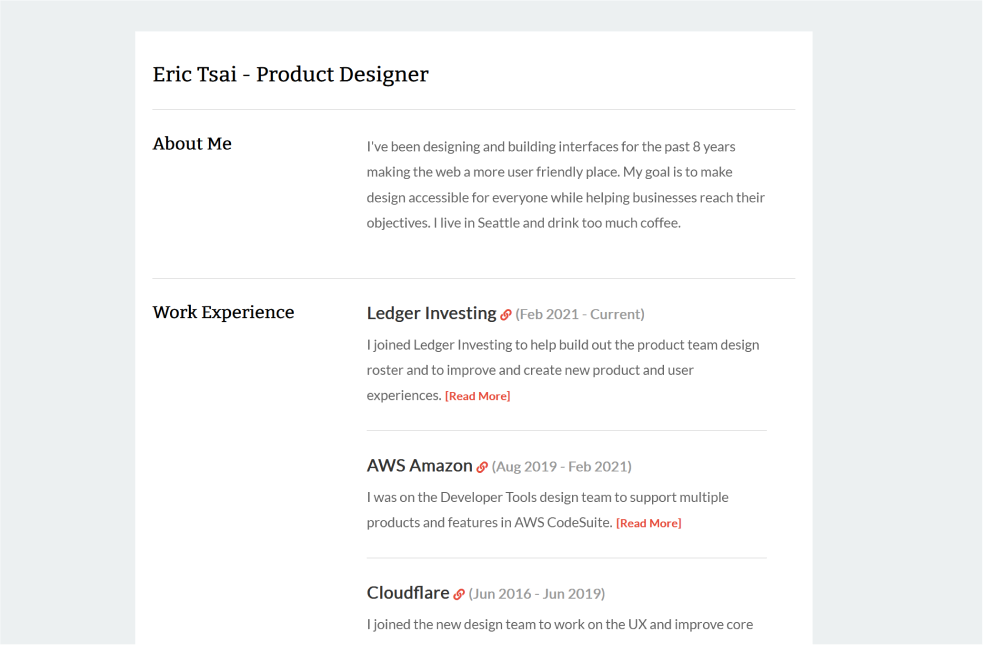
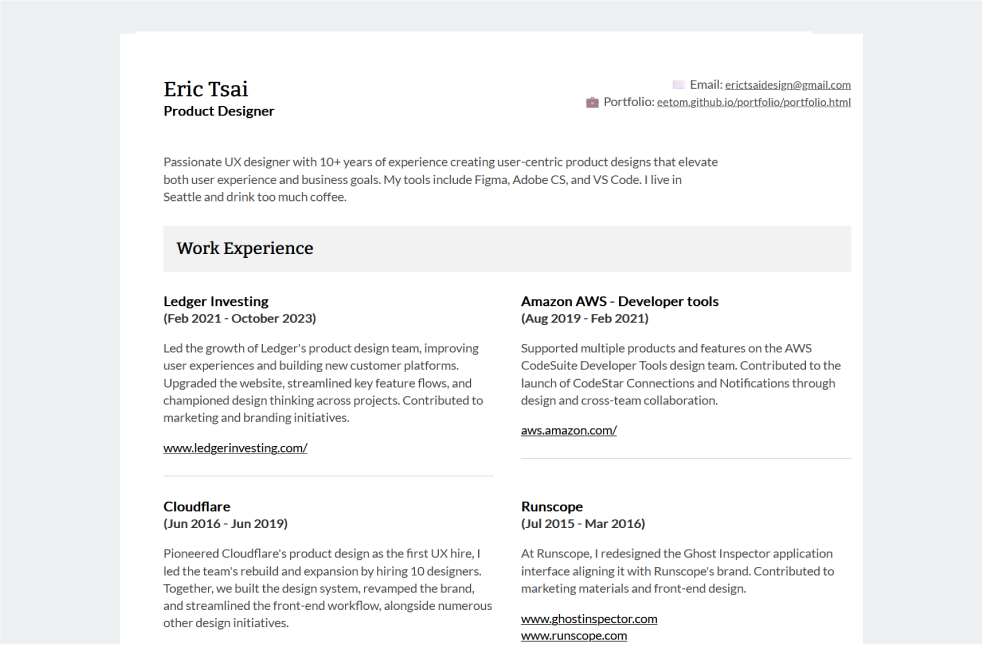
a few updates

diff --git a/projects/digital-resume/coverletter-samsara.html b/projects/digital-resume/coverletter-samsara.html
@@ -1,0 +1,65 @@
+<!DOCTYPE html>
+<html>
+  <head>
+    <meta charset="UTF-8">
+    <title>Eric Tsai - Cover letter Samsara</title>
+  <link href="https://fonts.googleapis.com/css?family=Bitter|Lato" rel="stylesheet">
+  <link href="https://fonts.googleapis.com/css2?family=Nothing+You+Could+Do&display=swap" rel="stylesheet">
+  <link rel="stylesheet" href="styles.css" type="text/css">
+  <link rel="stylesheet" href="styles-plain.css" type="text/css">
+  </head>
+  <body>
+  	<div class="wrapper">
+
+      <div class="work-wrapper">
+        <div class="section-content-2col">
+          <h1 class="title">Eric Tsai</h1>
+          <h3>Product Designer</h3>
+        </div>
+        <div class="section-content-2col">
+          <p class="right-align">
+            ✉ Email: <a href="mailto:erictsaidesign@gmail.com">erictsaidesign@gmail.com</a><br>
+            💼 Portfolio: <a href="../../portfolio/portfolio.html">eetom.github.io/portfolio/portfolio.html</a>
+            🗝 Password: mischief managed
+          </p>
+        </div>
+      </div>  
+
+
+      <div class="section-wrapper">
+        <p>To: Samsara team<br>
+        Re: Senior product designer @ Samsara</p>
+        
+        <p>Hello! My name is Eric Tsai, a product designer with 10+ years of experience creating user-centric designs
+        that elevate user experience while balancing with business goals. 
+        
+        I'm particularly interested in Shippo's focus on creating a platform to support and empower businesses to get turbo-charged logistics. 
+        I believe that technology has the power to democratize and lower the barrier of entry so that you don't need to be a mega-corp to have
+        the business tools and support needed to build your company.
+        </p>
+
+        <p>
+        In my previous role at Cloudflare, a leading cloud-infrastructure company, I led research and redesign efforts to improve user
+        flows for key features, resulting in improved user experience across multiple product categories, from web registrars to 
+        self-serve features for free customers. 
+        
+        I believe that my expertise in design thinking and my passion for creating clear and intuitive user interfaces 
+        that guide users seamlessly through their goals would be a valuable asset to the Shippo design team.
+        </p>
+        
+        <p>I'm very impressed by the customer feedback on how quick and easy Shippo is to use, especially for complex tasks like
+        international shipping. This goes to show how much thought and effort goes into the user-experience design and product
+        at Shippo. I'm very excited for the opportunity of working with the Shippo design team as it feels like user-first
+        design is a core value of the company.</p>
+
+        <p>Thank you for your time and consideration. I look forward to hearing from you soon.</p>
+        <p>Sincerely,</p>
+        <h3 class="signature-cover">Eric Tsai</h3>
+
+
+      </div>
+
+  	</div>
+    <script src="//ajax.googleapis.com/ajax/libs/jquery/1.7.2/jquery.min.js" type="text/javascript"></script>
+  </body>
+</html>

diff --git a/projects/projects.html b/projects/projects.html
@@ -71,8 +71,8 @@
             </div>
 
             <div class="img-sub">
-              <a href="digital-resume/index.html"><img src="../img/hosted/project_resume.png"></a>
-              <h3><a href="digital-resume/index.html">Digital Resume</a></h3>
+              <a href="digital-resume/resume2024.html"><img src="../img/hosted/project_resume.png"></a>
+              <h3><a href="digital-resume/resume2024.html">Digital Resume</a></h3>
             </div>
 
           <div class="img-sub">
